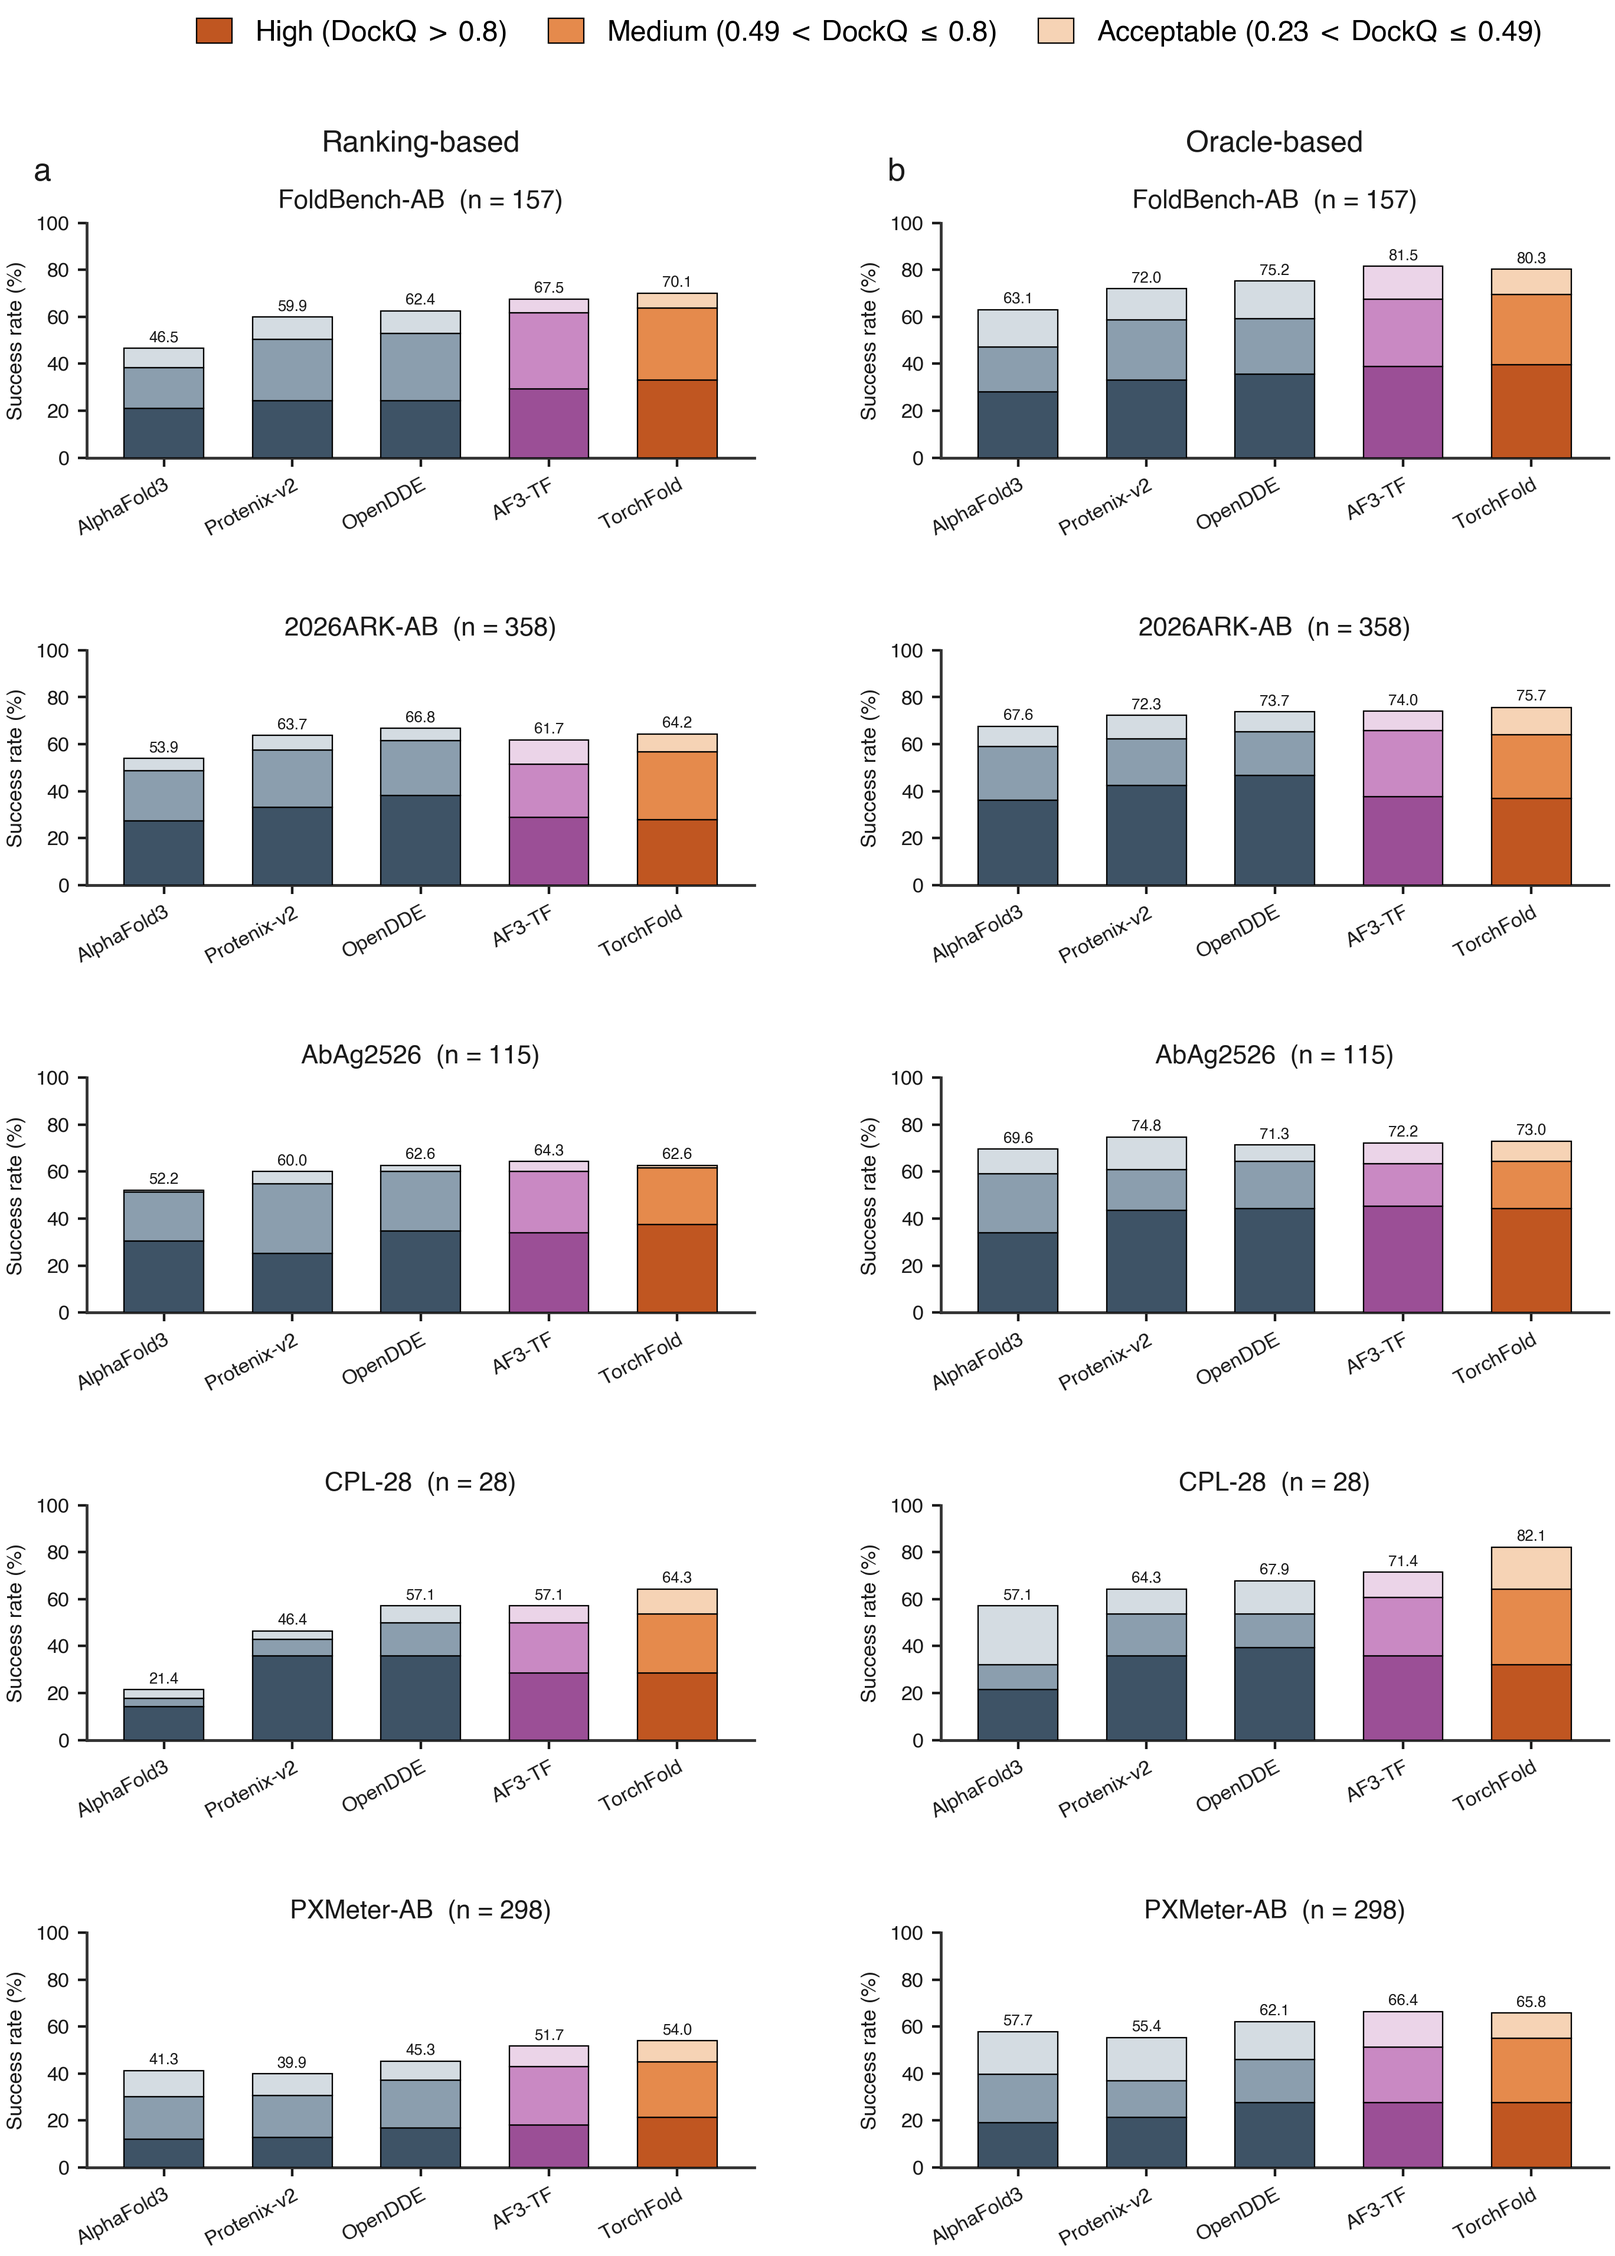
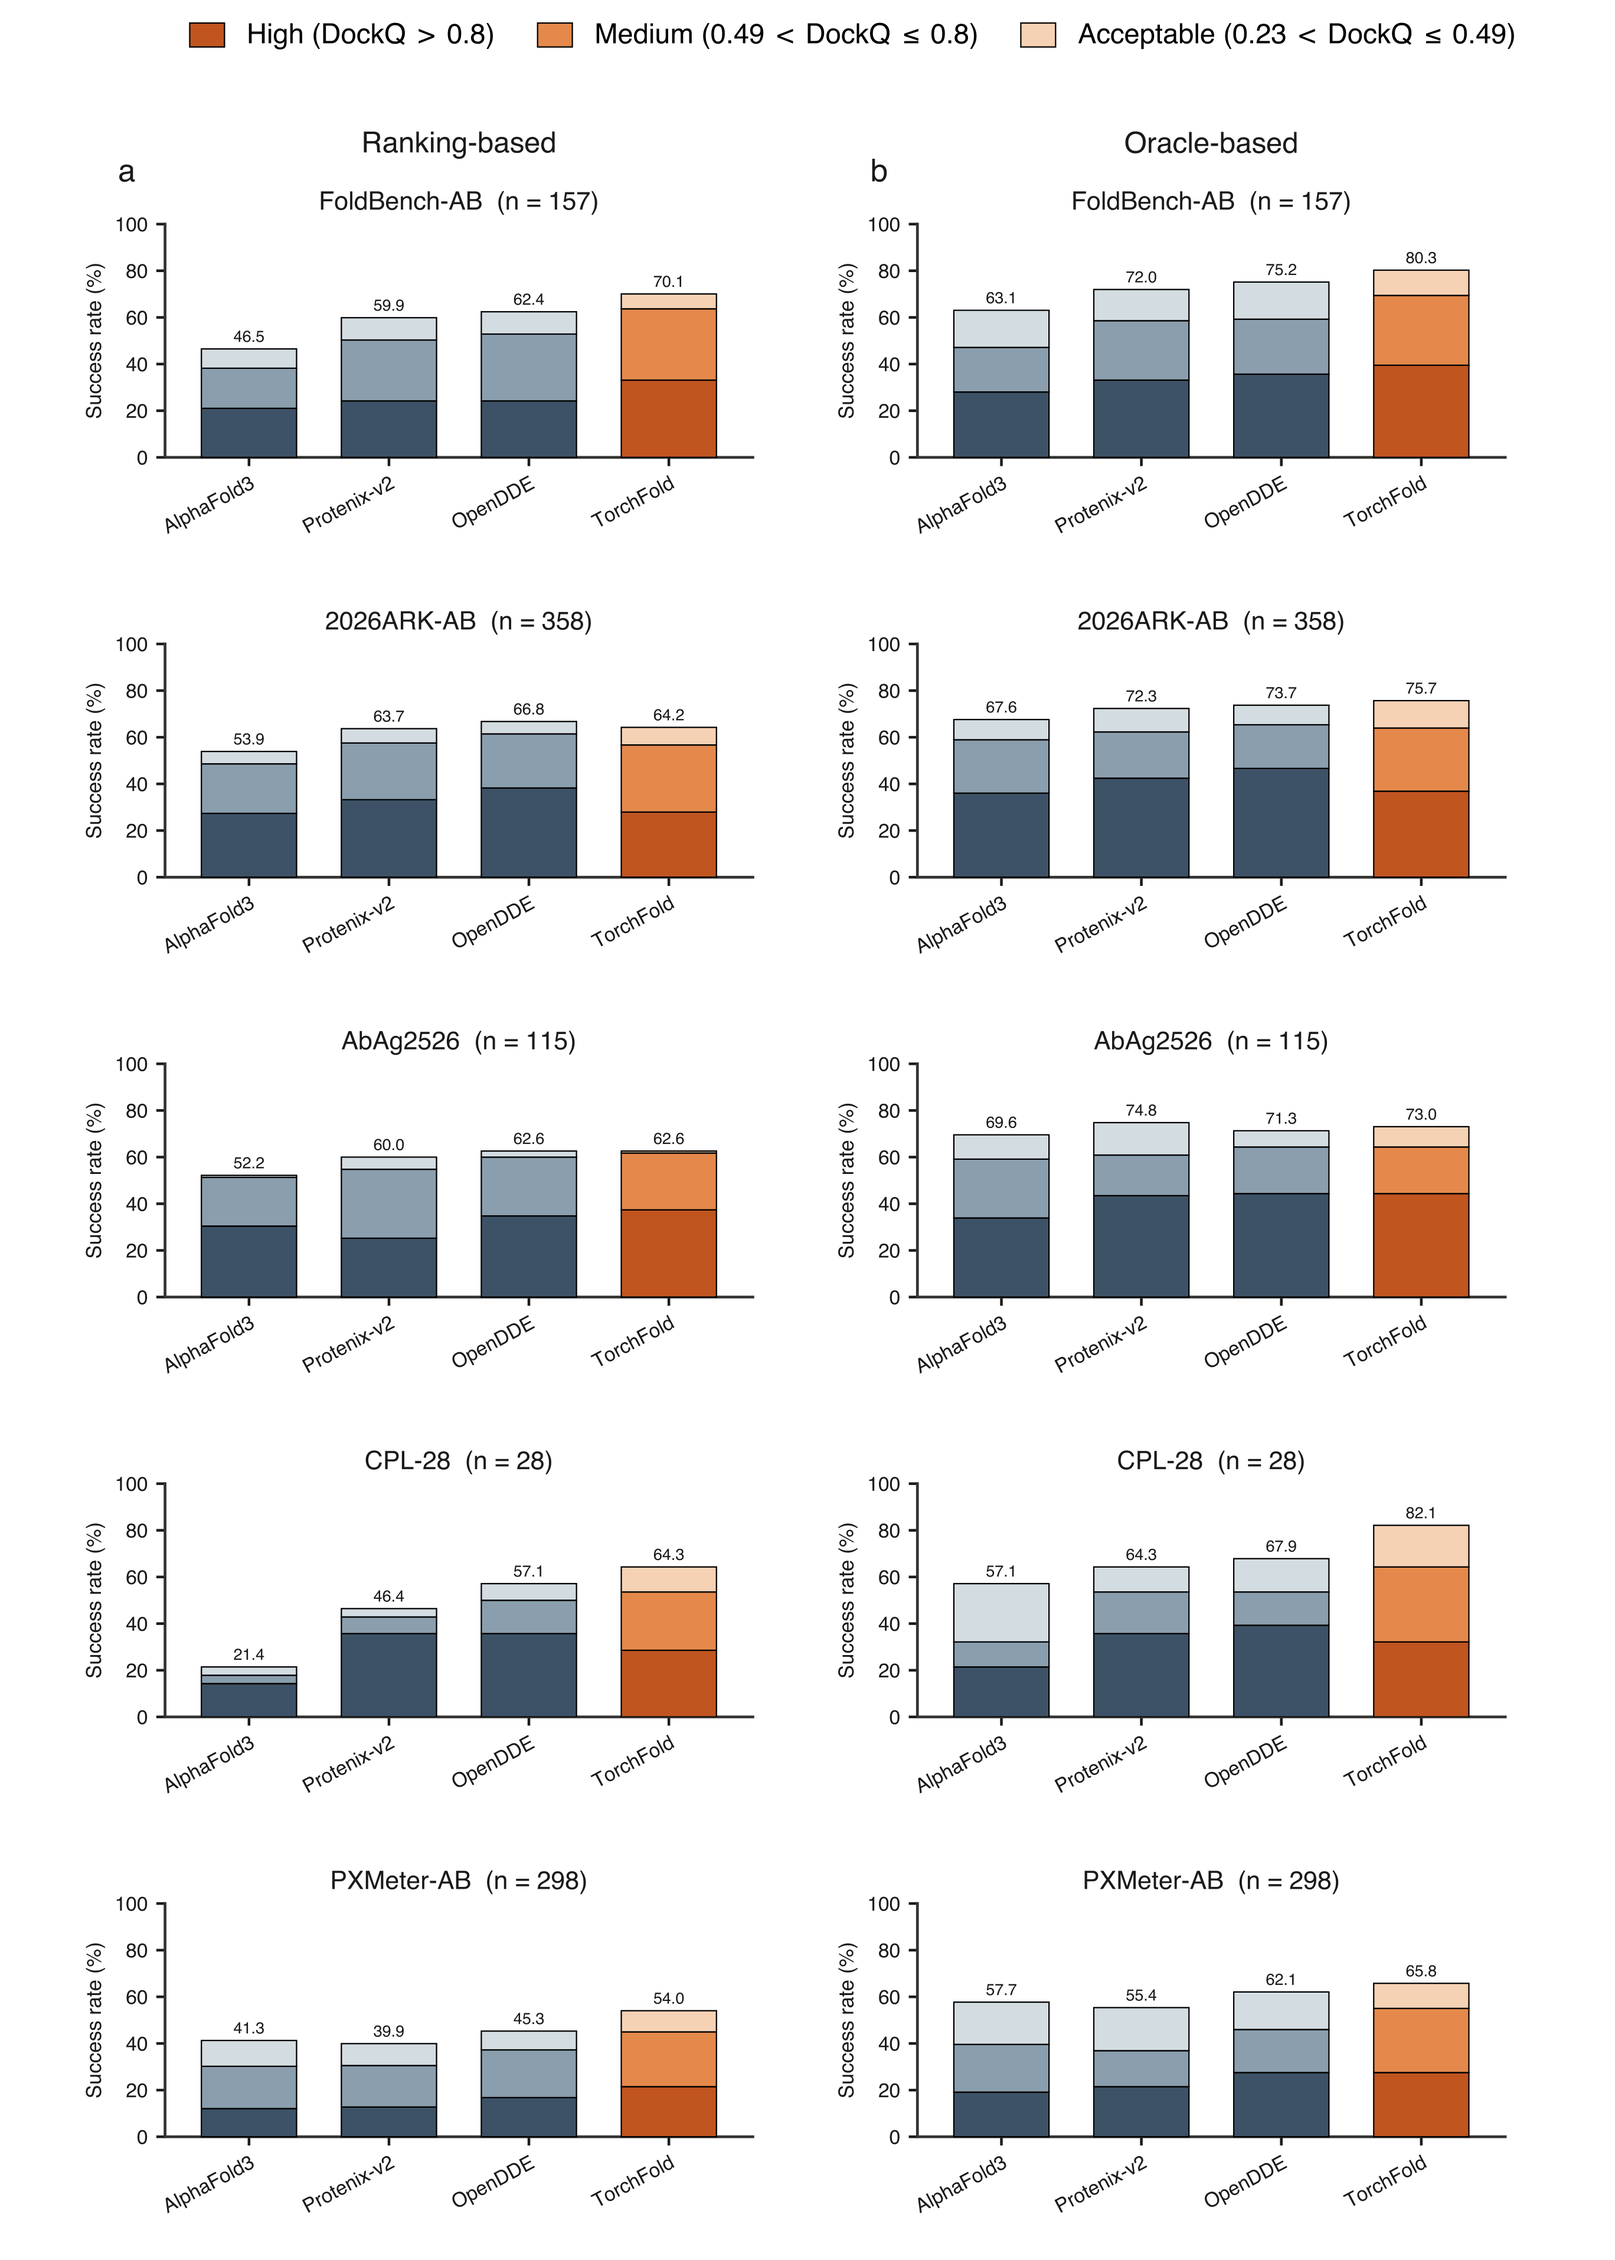
update

diff --git a/README.md b/README.md
@@ -4,7 +4,7 @@
 
 <div align="center">
 
-[🌐 Project Page](https://torchx-cpl.github.io) · [📄 TorchFold Paper](https://torchx-cpl.github.io) · [📄 TorchCraft Paper](https://torchx-cpl.github.io)
+[🌐 Project Page](https://torchx-cpl.github.io) · [📄 TorchFold Paper](https://torchx-cpl.github.io) · [📄 TorchCraft Paper](https://arxiv.org/abs/2609.19770)
 
 </div>
 
@@ -15,7 +15,7 @@ TorchX is an open all-atom biomolecular stack with four modules:
 - **TorchCraft** — unified binder design by inverting an all-atom structure predictor
 - **TorchFold Train** — training / fine-tuning
 
-This repository is the **GPU** tree (`main`). Released under the MIT license.
+This repository is the **GPU** tree (`main`). Released under the Apache License 2.0.
 
 [⚡ Web Server](https://torchfold.openi.org.cn/) — We provide a TorchFold web server so you can try inference quickly.
 
@@ -141,15 +141,17 @@ Set the path in:
   url          = {https://torchx-cpl.github.io}
 }
 
-@misc{chen2026torchcraft,
-  title        = {TorchCraft: Hallucination-based all-atom protein design with TorchFold},
-  author       = {{TorchCraft Team}},
-  year         = {2026},
-  note         = {Changping Laboratory},
-  url          = {https://torchx-cpl.github.io}
+@misc{torchcraftteam2026torchcraftunifiedbinderdesign,
+  title         = {TorchCraft: Unified binder design by inverting an all-atom structure predictor},
+  author        = {TorchCraft Team and Yu Liu and Zhouhanyu Shen and Zhengyi Li and Xikun Huang and Jiaqi Liu and Shuxian Gao and Qilin Yu and Xiayan Qin and Yucheng Zhang and Mingchen Chen},
+  year          = {2026},
+  eprint        = {2609.19770},
+  archivePrefix = {arXiv},
+  primaryClass  = {cs.AI},
+  url           = {https://arxiv.org/abs/2609.19770}
 }
 ```
 
 ## 📝 License
 
-Released under the [MIT license](LICENSE). Correspondence: [mingchenchen@cpl.ac.cn](mailto:mingchenchen@cpl.ac.cn)
+Released under the [Apache License 2.0](LICENSE). Correspondence: [mingchenchen@cpl.ac.cn](mailto:mingchenchen@cpl.ac.cn)

diff --git a/torchfold_train_gpu/README.md b/torchfold_train_gpu/README.md
@@ -110,4 +110,4 @@ bash scripts/infer/predict_json.sh
 
 ## License
 
-Released under the [MIT license](../LICENSE) at the repository root.
+Released under the [Apache License 2.0](../LICENSE) at the repository root.
